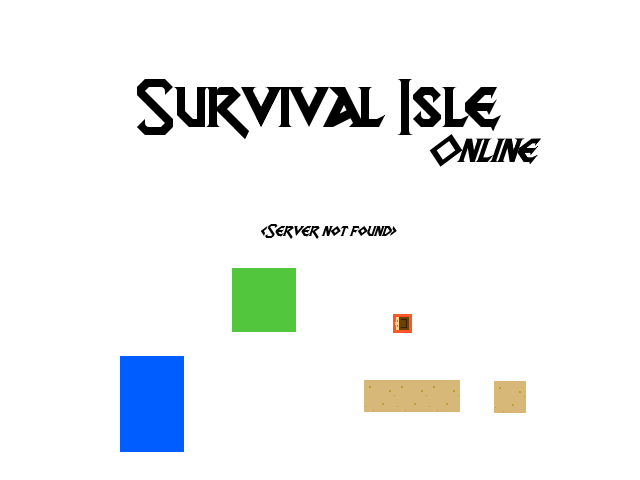
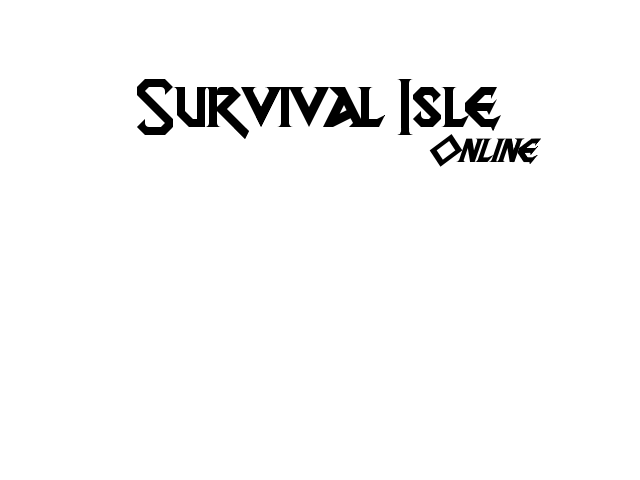
Added player name to menu

diff --git a/Survival-Isle/core/src/isle/survival/client/TitleScreen.java b/Survival-Isle/core/src/isle/survival/client/TitleScreen.java
@@ -16,6 +16,7 @@ public class TitleScreen extends InputAdapter {
 	private TitleScreenBackend backend;
 	private SpriteBatch spriteBatch;
 	private Texture texture;
+	private TextField nameField;
 	private TextField ipField;
 	private TextField portField;
 	private Button startButton;
@@ -26,8 +27,9 @@ public class TitleScreen extends InputAdapter {
 		this.spriteBatch = spriteBatch;
 		
 		BitmapFont font = new BitmapFont(Gdx.files.internal("dragonslapper.fnt"));
-		ipField = new TextField(new Point(160, 240), new Point(320, 26), font, "localhost");
-		portField = new TextField(new Point(160, 200), new Point(320, 26), font, "1337");
+		nameField = new TextField(new Point(160, 240), new Point(320, 26), font, "player" + (int)Math.floor(Math.random()*100));
+		ipField = new TextField(new Point(160, 200), new Point(320, 26), font, "localhost");
+		portField = new TextField(new Point(160, 160), new Point(320, 26), font, "1337");
 		startButton = new Button(new Point(256, 100), new Point(128, 28), font, " Join Game");
 	}
 	
@@ -38,6 +40,7 @@ public class TitleScreen extends InputAdapter {
 		spriteBatch.begin();
 		
 		spriteBatch.draw(texture, 0, 0);
+		nameField.draw(spriteBatch);
 		ipField.draw(spriteBatch);
 		portField.draw(spriteBatch);
 		startButton.draw(spriteBatch);
@@ -54,6 +57,7 @@ public class TitleScreen extends InputAdapter {
 	
 	@Override
 	public boolean keyTyped(char character) {
+		nameField.keyTyped(character); 
 		ipField.keyTyped(character); 
 		portField.keyTyped(character);
 		return true;
@@ -61,11 +65,12 @@ public class TitleScreen extends InputAdapter {
 	
 	@Override
 	public boolean touchDown(int screenX, int screenY, int pointer, int button) {
+		nameField.touchDown(screenX, screenY, pointer, button); 
 		ipField.touchDown(screenX, screenY, pointer, button); 
 		portField.touchDown(screenX, screenY, pointer, button);
 		if (startButton.touchDown(screenX, screenY, pointer, button)) {
 			try {
-			backend.startNewGame(ipField.getText(), Integer.parseInt(portField.getText()));
+			backend.startNewGame(nameField.getText(), ipField.getText(), Integer.parseInt(portField.getText()));
 			} catch (NumberFormatException e) {
 				System.out.println("Illegal port number.");
 			}

diff --git a/Survival-Isle/core/src/isle/survival/client/SurvivalIsleClient.java b/Survival-Isle/core/src/isle/survival/client/SurvivalIsleClient.java
@@ -38,11 +38,11 @@ public class SurvivalIsleClient extends ApplicationAdapter implements ClientInte
 		
 		titleScreen = new TitleScreen(this, spriteBatch);
 
-		startNewGame("localhost", 1337);
+		startNewGame(name, "localhost", 1337);
 	}
 
 	@Override
-	public void startNewGame(String ip, int port) {
+	public void startNewGame(String name, String ip, int port) {
 		game = new ClientGame(name, spriteBatch, textureBase, soundBase);
 		connectToServer(ip, port);
 		if (coder == null) {

diff --git a/Survival-Isle/core/src/isle/survival/client/TitleScreenBackend.java b/Survival-Isle/core/src/isle/survival/client/TitleScreenBackend.java
@@ -1,6 +1,6 @@
 package isle.survival.client;
 
 public interface TitleScreenBackend {
-	public void startNewGame(String ip, int port);
+	public void startNewGame(String name, String ip, int port);
 	public void terminateProgram();
 }
